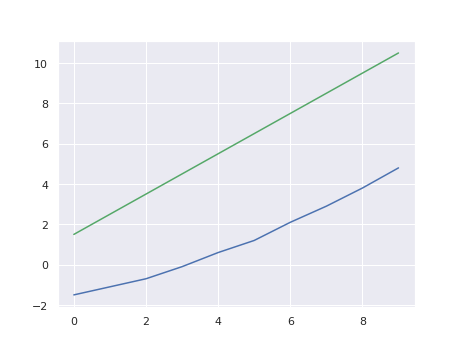
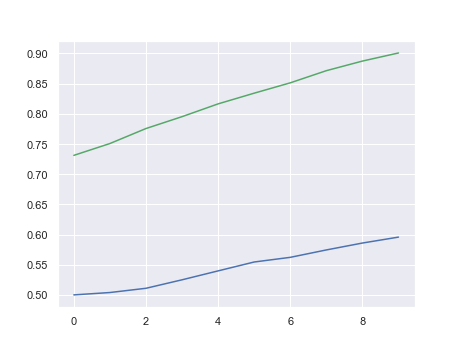
new update means, new figures

diff --git a/run_simulation.py b/run_simulation.py
@@ -16,6 +16,12 @@ NOTES:
 """
 
 
+def update_mean_new(ranking):
+    ranking['delta'] = [0.5 if (row.selected and row.succeeded) else (-0.25 if row.selected else 0) for row in ranking.itertuples()]
+    ranking = ranking.groupby('group').mean()['delta']
+    return ranking['A'], ranking['B']
+
+
 def update_mean(ranking):
     ranking = ranking.groupby(['group', 'selected', 'succeeded']).count()['rank']
     ranking = ranking.unstack().unstack()
@@ -51,8 +57,8 @@ def main():
     PROB_A = 0.6
     PROB_B = 1 - PROB_A
 
-    MEAN_A = 1.5
-    MEAN_B = -1.5
+    MEAN_A = 1
+    MEAN_B = 0
     VAR_A = 1
     VAR_B = 1
     
@@ -61,7 +67,7 @@ def main():
 
     METRIC = 'avg-position'
     DIST = 'logit-normal'
-    k = 8
+    k = 6
 
     # NUM_ITERS = [10, 25, 100]
     # RANKING_POLICIES = ['top-k', 'max-util', 'stochastic']
@@ -91,7 +97,7 @@ def main():
             arr_b = sample_dist(MEAN_B, VAR_B, QUERY_LEN, PROB_B, DIST)
 
             # rank subjects according to chosen policy, select individuals
-            ranking = rank_policy(arr_a, arr_b, RANK_POLICY, k=QUERY_LEN, p=PROB_A)
+            ranking = rank_policy(arr_a, arr_b, RANK_POLICY, k=k, p=PROB_A)
             result = select_policy(ranking, k, SELECT_POLICY)
 
             # compute chosen fairness metric 
@@ -99,7 +105,7 @@ def main():
                                          compute_metric(ranking, METRIC).loc['B']
 
             # compute change in population distributions 
-            deltas_a[j], deltas_b[j] = update_mean(result)
+            deltas_a[j], deltas_b[j] = update_mean_new(result)
 
         # take the mean of the metrics over the queries at each step
         metric_a[i], metric_b[i] = np.mean(a_metrics), np.mean(b_metrics)
@@ -116,8 +122,8 @@ def main():
 
     # plot the change in means over time
     plt.cla()
-    plt.plot(np.arange(NUM_ITER), mean_a, color='C2', label=f'Group A mean')
-    plt.plot(np.arange(NUM_ITER), mean_b, color='C0', label=f'Group B mean')
+    plt.plot(np.arange(NUM_ITER), 1 / (1 + np.exp(-mean_a)), color='C2', label=f'Group A mean')
+    plt.plot(np.arange(NUM_ITER), 1 / (1 + np.exp(-mean_b)), color='C0', label=f'Group B mean')
     plt.savefig(f'sim-figures-{SELECT_POLICY}/means_{NUM_ITER}.png', dpi=72)
 
 
